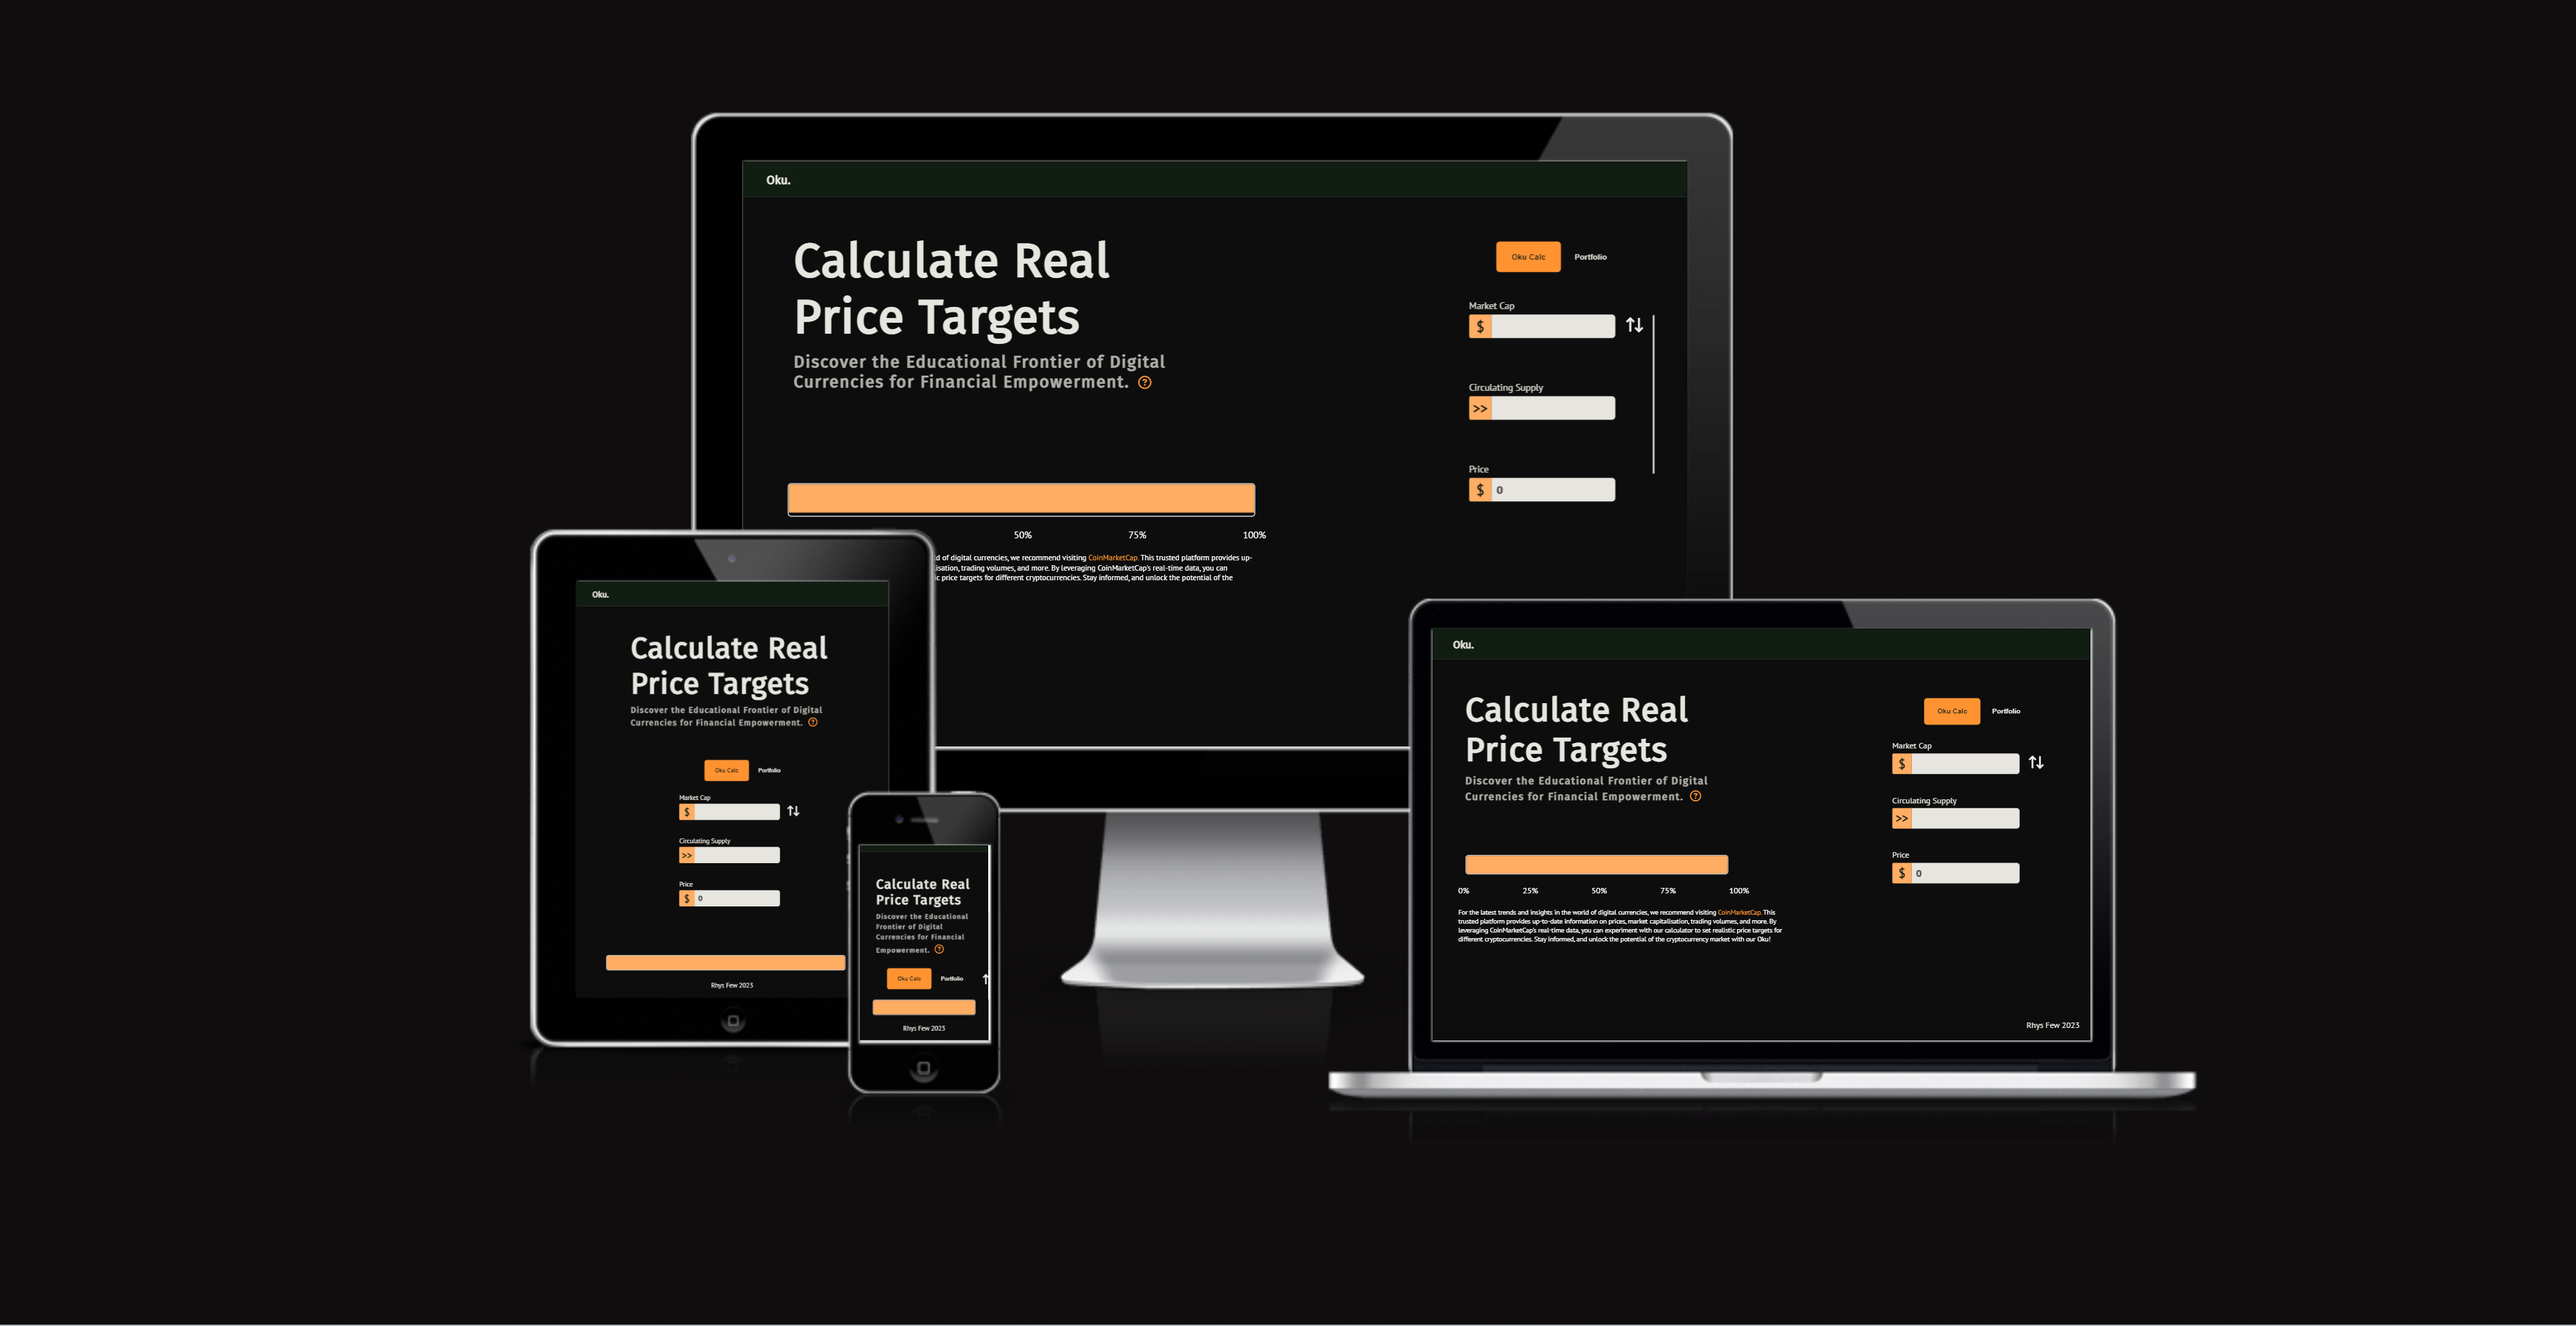
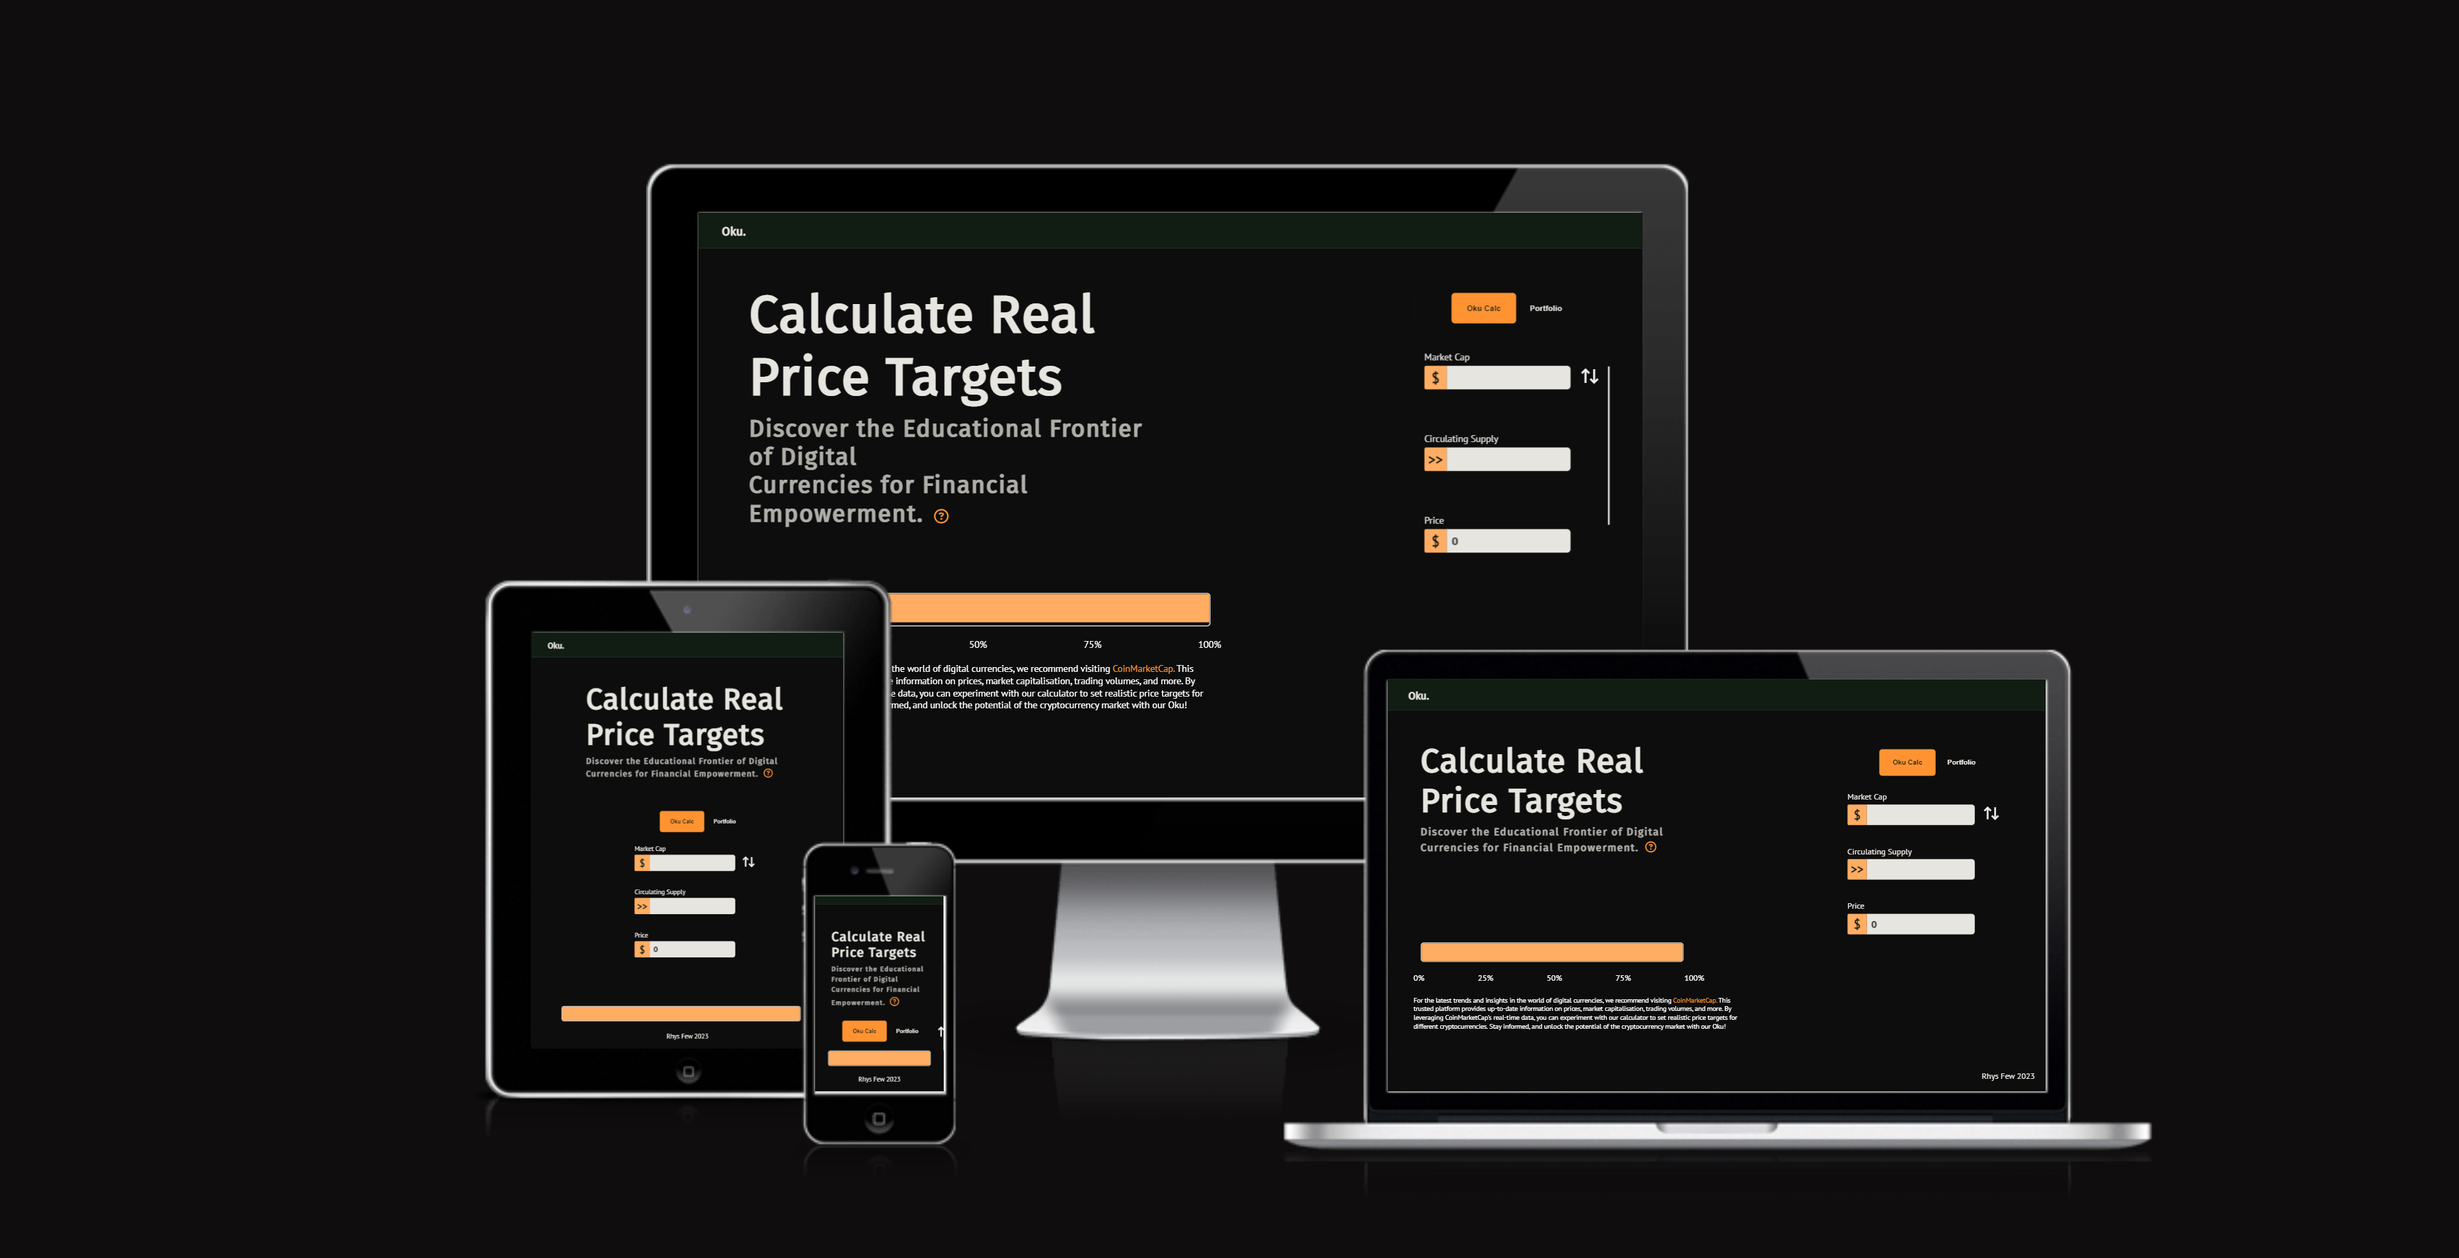
Docs - add calculator section

Changed region(s): [[0.186, 0.0622, 0.8679, 0.9329], [0.0, 0.9951, 1.0, 1.0]]

diff --git a/README.md b/README.md
@@ -6,7 +6,7 @@
 ### To view the project please [click here]().
 <br>
 
-![Index page screenshot](/assets/images/screenshots/responsive.png)
+![Index page screenshot](/assets/images/screenshots/main.png)
 
 
 ## **Background**
@@ -151,8 +151,23 @@ While the stylised design inspired by Solomia Kravets initially intrigued me, I 
 ![Final-page-3](/assets/images/screenshots/assetspage.png)
 ## **Features**
 
-### **Header** 
+### **Calculator** 
 
+![Final-page-3](/assets/images/screenshots/calc.png)
+
+In my application, the default action of the calculator is set to division. This means that when the user interacts with the calculator, it automatically performs a division operation using the market capitalisation and circulating supply values provided.
+By taking the market capitalisation and circulating supply as inputs, the calculator applies the division operation to calculate a price target for the digital currency. This default functionality offers users a quick and convenient way to estimate the approximate price of a cryptocurrency based on these key factors.
+To achieve this, I employ JavaScript functions and utilise keyup and keydown event listeners to capture user input in real-time. As the user enters or modifies the values for market capitalisation and circulating supply, the calculator instantly updates and recalculates the price target, allowing users to explore different scenarios and make informed decisions.
+By incorporating this default divisible action, my calculator empowers users to quickly assess the potential price of a digital currency based on its market capitalisation and circulating supply, providing valuable insights for their investment strategies.
+
+
+![Final-page-3](/assets/images/screenshots/calc2.png)
+
+
+In addition to the default division action, my calculator application also features a switch toggle that allows users to swap between market capitalisation and price calculations. This switch toggle introduces a dynamic functionality that changes the underlying function used by the calculator.
+When the toggle is activated, it modifies the calculator's behaviour to perform multiplication instead of division. This means that users can now input a price value, and based on this input, the calculator will calculate the corresponding market capitalisation.
+To implement this functionality, I incorporated a checkbox element with a boolean value of true or false. When the checkbox is checked, indicating the user's intention to switch functions, the calculator updates its operation accordingly.
+By offering this switch toggle feature, users have the flexibility to perform both market capitalisation to price and price to market capitalisation calculations using a single calculator. This enhances the versatility and usefulness of the application, catering to a wider range of user needs and preferences.
 
 
 ![Header]()
